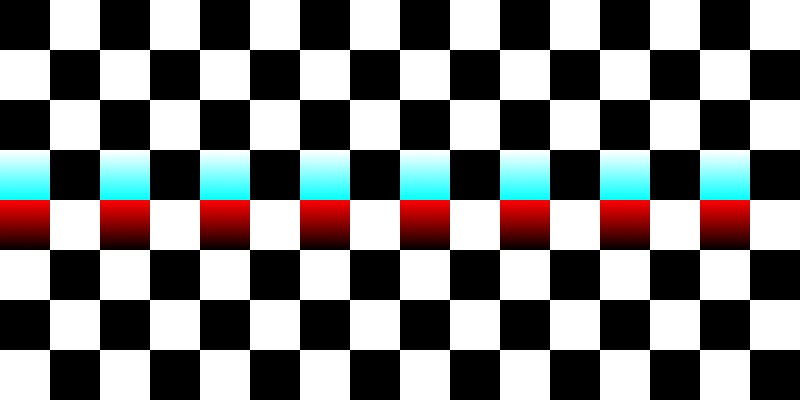
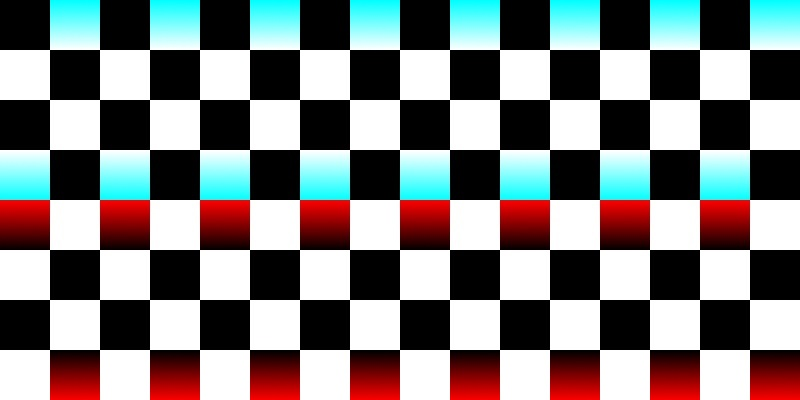
More conic projections
I decided it was time to fill out my collection of conic projections.
Not sure why I never did this before.

diff --git a/src/rastermaps/MapProjections.java b/src/rastermaps/MapProjections.java
@@ -60,24 +60,26 @@ public class MapProjections extends Application {
 	private static final KeyCombination ctrlS = new KeyCodeCombination(KeyCode.S, KeyCodeCombination.CONTROL_DOWN);
 	
 	
-	private static final String[] PROJ_ARR = { "Equirectangular", "Mercator", "Gall Stereographic",
-			"Hobo-Dyer", "Polar", "Stereographic", "Azimuthal Equal-Area", "Orthographic", "Gnomonic",
-			"Conformal Conic", "Winkel Tripel", "Van der Grinten", "Mollweide", "Hammer", "Sinusoidal", "Lemons",
-			"Pierce Quincuncial", "Guyou", "AuthaGraph", "TetraGraph", "Magnifier", "Experimental" };
-	private static final double[] DEFA = { 2, 1, 4/3.0, 1.977, 1, 1, 1, 1, 1, 2, Math.PI/2, 1, 2, 2,
-			2, 2, 1, 2, 4.0/Math.sqrt(3), Math.sqrt(3), 1, 1 };
+	private static final String[] PROJ_ARR = { "Equirectangular", "Mercator",
+			"Gall Stereographic", "Hobo-Dyer", "Polar", "Stereographic",
+			"Azimuthal Equal-Area", "Orthographic", "Gnomonic",
+			"Equidistant Conic", "Conformal Conic", "Albers", "Winkel Tripel",
+			"Van der Grinten", "Mollweide", "Hammer", "Sinusoidal", "Lemons",
+			"Pierce Quincuncial", "Guyou", "AuthaGraph", "TetraGraph",
+			"Magnifier", "Experimental" };
+	private static final double[] DEFA = { 2, 1, 4 / 3.0, 1.977, 1, 1, 1, 1, 1, 2, 2, 2, Math.PI / 2, 1, 2, 2, 2, 2,
+			1, 2, 4.0 / Math.sqrt(3), Math.sqrt(3), 1, 1 };
 	private static final String[] DESC = { "An equidistant cylindrical map", "A conformal cylindrical map",
 			"A compromising cylindrical map", "An equal-area cylindrical map", "An equidistant azimuthal map",
 			"A conformal azimuthal map", "An equal-area azimuthal map",
 			"Represents earth viewed from an infinite distance",
-			"Every straight line on the map is a straight line on the sphere", "A conformal conical map",
-			"The compromise map used by National Geographic", "A circular compromise map",
-			"An equal-area map shaped like an ellipse", "An equal-area map shaped like an elipse",
-			"An equal-area map shaped like a sinusoid", "BURN LIFE'S HOUSE DOWN!",
-			"A conformal square map that uses complex math",
+			"Every straight line on the map is a straight line on the sphere", "An equidistant conic map",
+			"A conformal conic map", "An equal-area conic map", "The compromise map used by National Geographic",
+			"A circular compromise map", "An equal-area map shaped like an ellipse",
+			"An equal-area map shaped like an ellipse", "An equal-area map shaped like a sinusoid",
+			"BURN LIFE'S HOUSE DOWN!", "A conformal square map that uses complex math",
 			"A reorganized version of Pierce Quincuncial and actually the best map ever",
-			"An almost-equal-area map based on a tetrahedron.",
-			"A compromising knockoff of the AuthaGraph projection",
+			"An almost-equal-area map based on a tetrahedron.", "A compromising knockoff of the AuthaGraph projection",
 			"A novelty map that swells the center to disproportionate scale",
 			"What happens when you apply a complex differentiable function to a stereographic projection?" };
 	
@@ -454,6 +456,10 @@ public class MapProjections extends Application {
 			return tetragraph(X, Y);
 		else if (p.equals("Experimental"))
 			return experiment(X, Y);
+		else if (p.equals("Equidistant Conic"))
+			return edConic(X, Y);
+		else if (p.equals("Albers"))
+			return albers(X, Y);
 		else
 			throw new IllegalArgumentException(p);
 	}
@@ -801,6 +807,26 @@ public class MapProjections extends Application {
 				Math.PI/2 - Math.atan(Math.tan(1.654*Math.hypot(localX, localY)*Math.cos(dt))/Math.cos(dt)),
 				Math.PI/2 + t0 + dt};
 		return obliquify(faceCenter, triCoords);
+	}
+	
+	
+	private static double[] edConic(double x, double y) {
+		y = (y-1)/2;
+		final double r = Math.hypot(x, y);
+		if (r < 0.2 || r > 1)	return null;
+		return new double[] {
+				3*Math.PI/4 - 5*Math.PI/4*r,
+				2*Math.atan2(y, x)+Math.PI};
+	}
+	
+	
+	private static double[] albers(double x, double y) {
+		y = (y-1)/2;
+		final double r = Math.hypot(x, y);
+		if (r < Math.sqrt(1/11.) || r > 1)	return null;
+		return new double[] {
+				Math.asin(1.2-2.2*Math.pow(r, 2)),
+				2*Math.atan2(y, x)};
 	}
 	
 	

diff --git a/src/vectormaps/MapProjections.java b/src/vectormaps/MapProjections.java
@@ -64,19 +64,22 @@ public class MapProjections extends Application {
 	private static final KeyCombination ctrlS = new KeyCodeCombination(KeyCode.S, KeyCodeCombination.CONTROL_DOWN);
 	
 	
-	private static final String[] PROJ_ARR = { "Equirectangular", "Mercator", "Gall Stereographic",
-			"Hobo-Dyer", "Polar", "Stereographic", "Azimuthal Equal-Area", "Orthographic", "Gnomonic",
-			"Lambert Conical", "Winkel Tripel", "Van der Grinten", "Mollweide", "Aitoff", "Hammer", "Sinusoidal",
-			"Pierce Quincuncial", "Guyou", "TetraGraph", "Magnifier", "Experimental" };
+	private static final String[] PROJ_ARR = { "Equirectangular", "Mercator",
+			"Gall Stereographic", "Hobo-Dyer", "Polar", "Stereographic",
+			"Azimuthal Equal-Area", "Orthographic", "Gnomonic",
+			"Equidistant Conic", "Conformal Conic", "Albers", "Winkel Tripel",
+			"Van der Grinten", "Mollweide", "Aitoff", "Hammer", "Sinusoidal",
+			"Pierce Quincuncial", "Guyou", "TetraGraph", "Magnifier",
+			"Experimental" };
 	private static final String[] DESC = { "An equidistant cylindrical map", "A conformal cylindrical map",
 			"A compromising cylindrical map", "An equal-area cylindrical map", "An equidistant azimuthal map",
 			"A conformal azimuthal map", "An equal-area azimuthal map",
 			"Represents earth viewed from an infinite distance",
-			"Every straight line on the map is a straight line on the sphere", "A conformal conical map",
-			"The compromise map used by National Geographic", "A circular compromise map",
-			"An equal-area map shaped like an ellipse", "An equal-area map shaped like an elipse",
-			"An equal-area map shaped like an elipse", "An equal-area map shaped like a sinusoid",
-			"A conformal square map that uses complex math",
+			"Every straight line on the map is a straight line on the sphere", "An equidistant conic map",
+			"A conformal conic map", "An equal-area conic map", "The compromise map used by National Geographic",
+			"A circular compromise map", "An equal-area map shaped like an ellipse",
+			"An equal-area map shaped like an ellipse", "An equal-area map shaped like an ellipse",
+			"An equal-area map shaped like a sinusoid", "A conformal square map that uses complex math",
 			"A reorganized version of Pierce Quincuncial and actually the best map ever",
 			"A compromising knockoff of the AuthaGraph projection",
 			"A novelty map that swells the center to disproportionate scale",
@@ -528,6 +531,10 @@ public class MapProjections extends Application {
 			return tetragraph(lat, lon);
 		else if (p.equals("Experimental"))
 			return experiment(lat, lon);
+		else if (p.equals("Equidistant Conic"))
+			return edConic(lat, lon);
+		else if (p.equals("Albers"))
+			return albers(lat, lon);
 		else
 			throw new IllegalArgumentException(p);
 	}
@@ -789,6 +796,20 @@ public class MapProjections extends Application {
 		default:
 			return null;
 		}
+	}
+	
+	
+	private static double[] edConic(double lat, double lon) {
+		final double r = 3*Math.PI/5 - 4/5.*lat;
+		final double tht = lon/2 - Math.PI/2;
+		return new double[] { r*Math.cos(tht), r*Math.sin(tht) + Math.PI/2 };
+	}
+	
+	
+	private static double[] albers(double lat, double lon) {
+		final double r = 2*Math.sqrt(1.2 - Math.sin(lat));
+		final double tht = lon/2 - Math.PI/2;
+		return new double[] { r*Math.cos(tht), r*Math.sin(tht) + Math.PI/2 };
 	}
 	
 	

diff --git a/src/mapAnalyzer/MapAnalyzer.java b/src/mapAnalyzer/MapAnalyzer.java
@@ -54,18 +54,18 @@ public class MapAnalyzer extends Application {
 	
 	private static final String[] PROJ_ARR = { "Equirectangular", "Mercator", "Gall Stereographic",
 			"Hobo-Dyer", "Polar", "Stereographic", "Azimuthal Equal-Area", "Orthographic", "Gnomonic",
-			"Conformal Conic", "Winkel Tripel", "Van der Grinten", "Mollweide", "Hammer", "Sinusoidal",
+			"Equidistant Conic", "Conformal Conic", "Albers", "Winkel Tripel", "Van der Grinten", "Mollweide", "Hammer", "Sinusoidal",
 			"Pierce Quincuncial", "Guyou", "TetraGraph", "Magnifier", "Experimental" };
-	private static final double[] DEFA = { 2, 1, 4/3.0, 1.977, 1, 1, 1, 1, 1, 2, Math.PI/2, 1, 2, 2,
-			2, 1, 2, Math.sqrt(3), 1, 1 };
+	private static final double[] DEFA = { 2, 1, 4/3.0, 1.977, 1, 1, 1, 1, 1,
+			2, 2, 2, Math.PI/2, 1, 2, 2, 2, 1, 2, Math.sqrt(3), 1, 1 };
 	private static final String[] DESC = { "An equidistant cylindrical map", "A conformal cylindrical map",
 			"A compromising cylindrical map", "An equal-area cylindrical map", "An equidistant azimuthal map",
 			"A conformal azimuthal map", "An equal-area azimuthal map",
 			"Represents earth viewed from an infinite distance",
-			"Every straight line on the map is a straight line on the sphere", "A conformal conical map",
-			"The compromise map used by National Geographic", "A circular compromise map",
-			"An equal-area map shaped like an ellipse", "An equal-area map shaped like an elipse",
-			"An equal-area map shaped like a sinusoid",
+			"Every straight line on the map is a straight line on the sphere", "An equidistant conic map",
+			"A conformal conic map", "An equal-area conic map", "The compromise map used by National Geographic",
+			"A circular compromise map", "An equal-area map shaped like an ellipse",
+			"An equal-area map shaped like an ellipse", "An equal-area map shaped like a sinusoid",
 			"A conformal square map that uses complex math",
 			"A reorganized version of Pierce Quincuncial and actually the best map ever",
 			"A compromising knockoff of the AuthaGraph projection",
@@ -222,8 +222,8 @@ public class MapAnalyzer extends Application {
 			Platform.runLater(() -> saveImage(graphic, pBar));
 		}).start();
 	}
-
-
+	
+	
 	public void saveImage(Image img, ProgressBarDialog pBar) { // call from the main thread!
 		pBar.close();
 		
@@ -363,8 +363,8 @@ public class MapAnalyzer extends Application {
 		}
 		return output;
 	}
-
-
+	
+	
 	private final double average(double[][] values) { //get the average
 		double s = 0, n = 0;
 		for (double[] row: values) {
